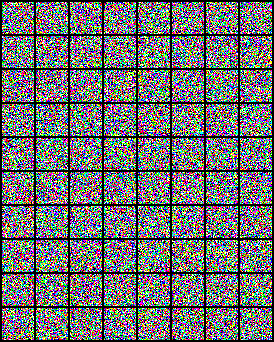
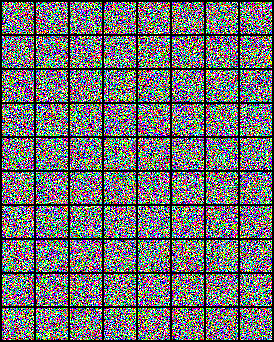
Loss should be with noise, since we are predicting noise in image

Changed region(s): [[0.0, 0.0, 0.9927, 0.9942]]

diff --git a/src/DiffusionFreeGuidence/DiffusionCondition.py b/src/DiffusionFreeGuidence/DiffusionCondition.py
@@ -65,7 +65,7 @@ class GaussianDiffusionTrainer(nn.Module):
         pred = self.model(x_t, t, labels)
 
         # Compute your loss for model prediction and ground truth noise (that you just generated)
-        loss = F.mse_loss(pred, x_0)
+        loss = F.mse_loss(pred, noise)
 
         return loss
 
@@ -108,6 +108,7 @@ class GaussianDiffusionSampler(nn.Module):
         """
 
         alphas = self.get_buffer("alphas")
+        betas = self.get_buffer("betas")
         # sqrt_alphas_bar = self.get_buffer('sqrt_alphas_bar')
         sqrt_one_minus_alphas_bar = self.get_buffer("sqrt_one_minus_alphas_bar")
 
@@ -122,15 +123,18 @@ class GaussianDiffusionSampler(nn.Module):
             # hopefully works?
             t_tensor = torch.tensor([t]).to(x_T.device)
 
+            # beta_sqrt = betas[t].sqrt()
+
             x_t = (
                 1
-                / a_t
+                / torch.sqrt(a_t)
                 * (
                     x_t
                     - ((1 - a_t) / sqrt_one_minus_alphas_bar[t])
                     * self.model(x_t, t_tensor, labels)
-                    + sqrt_one_minus_alphas_bar[t] * z
                 )
+                # + beta_sqrt * z
+                + sqrt_one_minus_alphas_bar[t] * z
             )
 
             assert torch.isnan(x_t).int().sum() == 0, "nan in tensor."
